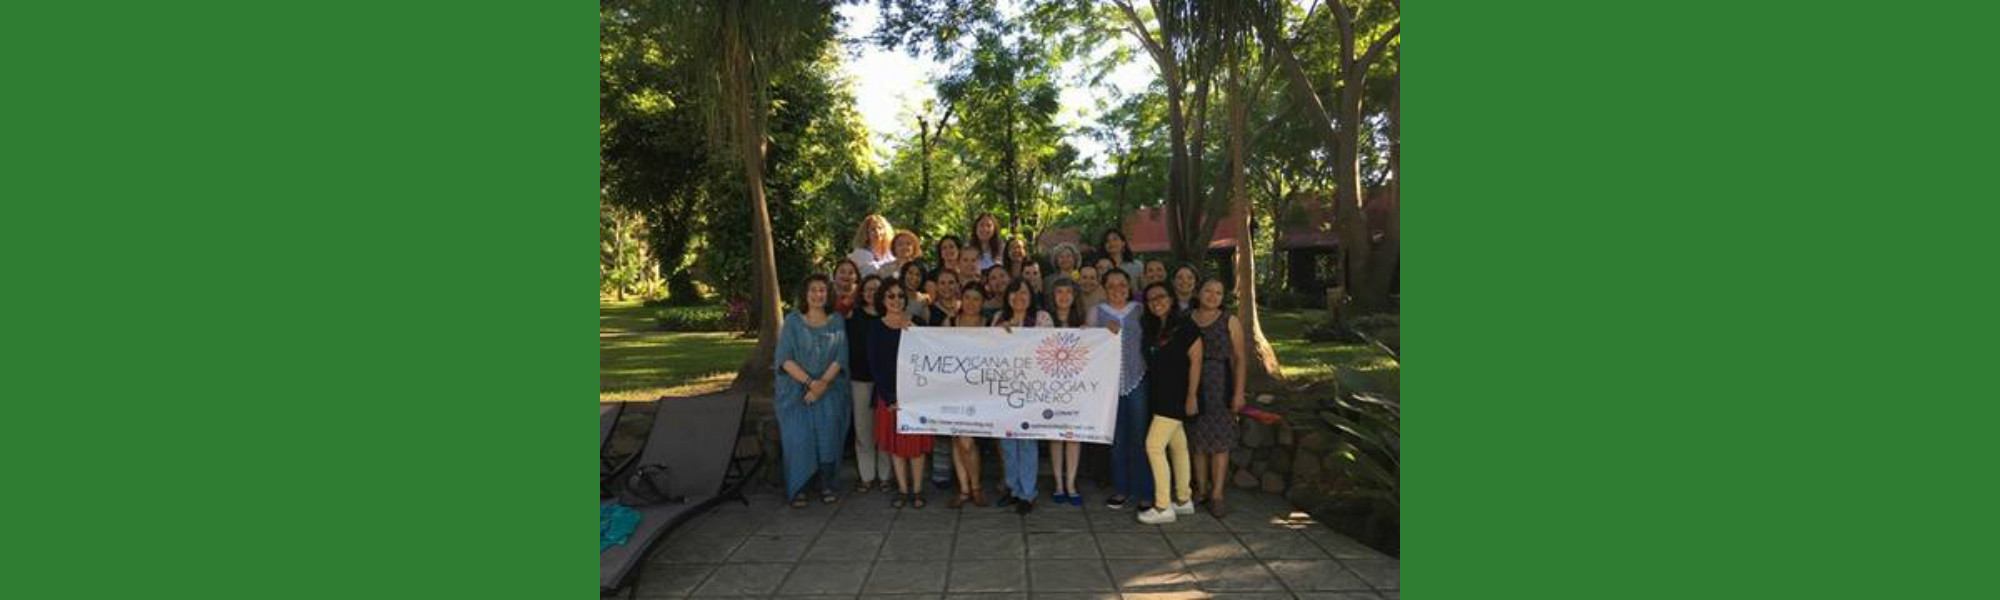
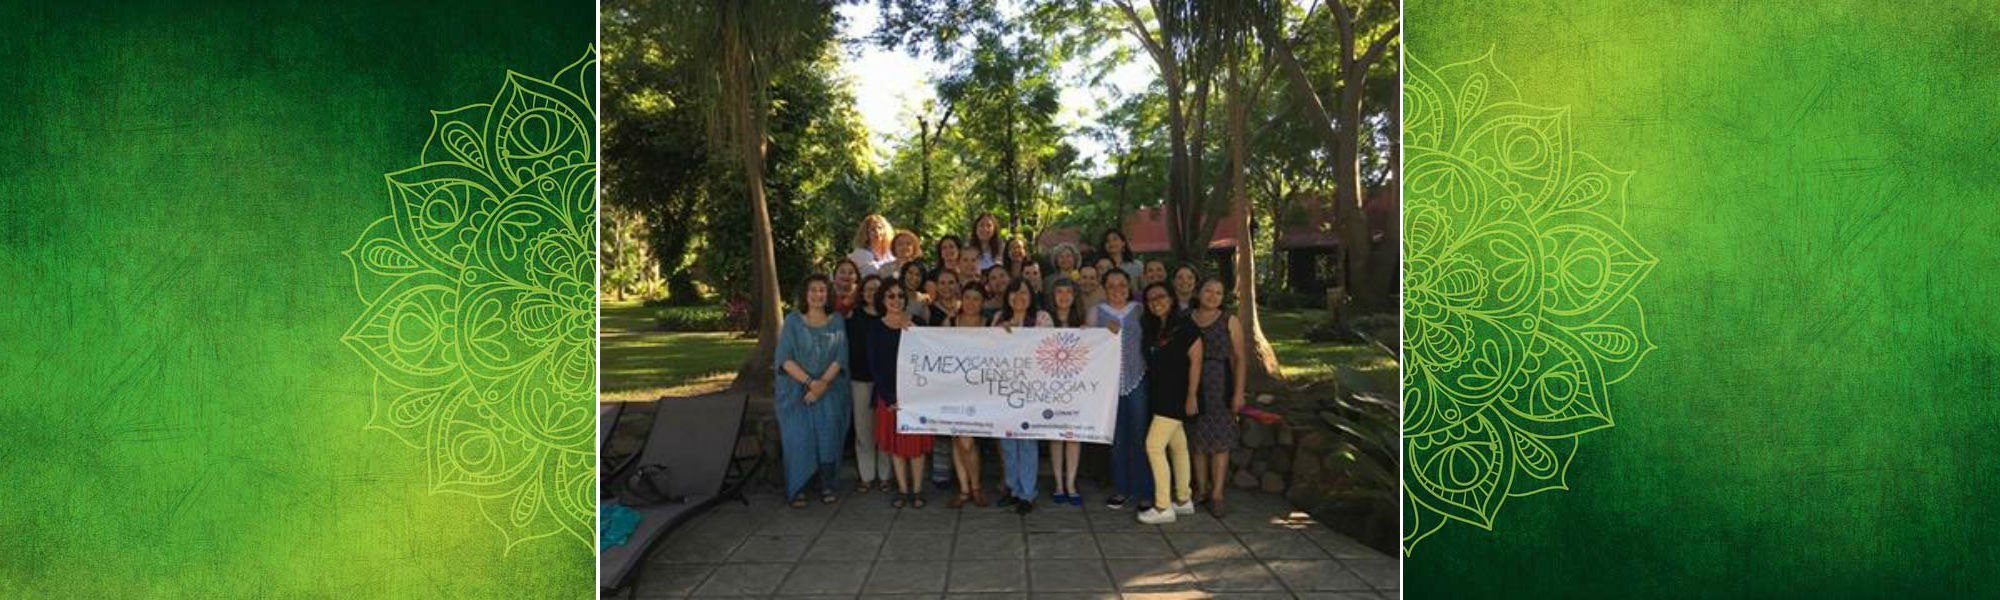
Poniendo flores en imagen de Carrusel Nayarit2017

diff --git a/resources/views/index/avisos.blade.php b/resources/views/index/avisos.blade.php
@@ -30,7 +30,7 @@
             </div>
             <div class="col-md-3 hidden-md-down">
                 <br><br>
-                <iframe src="https://www.facebook.com/plugins/page.php?href=https%3A%2F%2Fwww.facebook.com%2FRedMexciteg%2F&tabs=timeline&width=340&height=700&small_header=false&adapt_container_width=true&hide_cover=false&show_facepile=true&appId" width="100%" height="700" style="border:none;overflow:hidden" scrolling="no" frameborder="0" allowTransparency="true"></iframe>
+                <iframe src="https://www.facebook.com/plugins/page.php?href=https%3A%2F%2Fwww.facebook.com%2FRedMexciteg%2F&tabs=timeline&width=340&height=700&small_header=false&adapt_container_width=true&hide_cover=false&show_facepile=true&appId" width="100%" height="100%" style="border:none;overflow:hidden" scrolling="no" frameborder="0" allowTransparency="true"></iframe>
             </div>
         </div>
 
